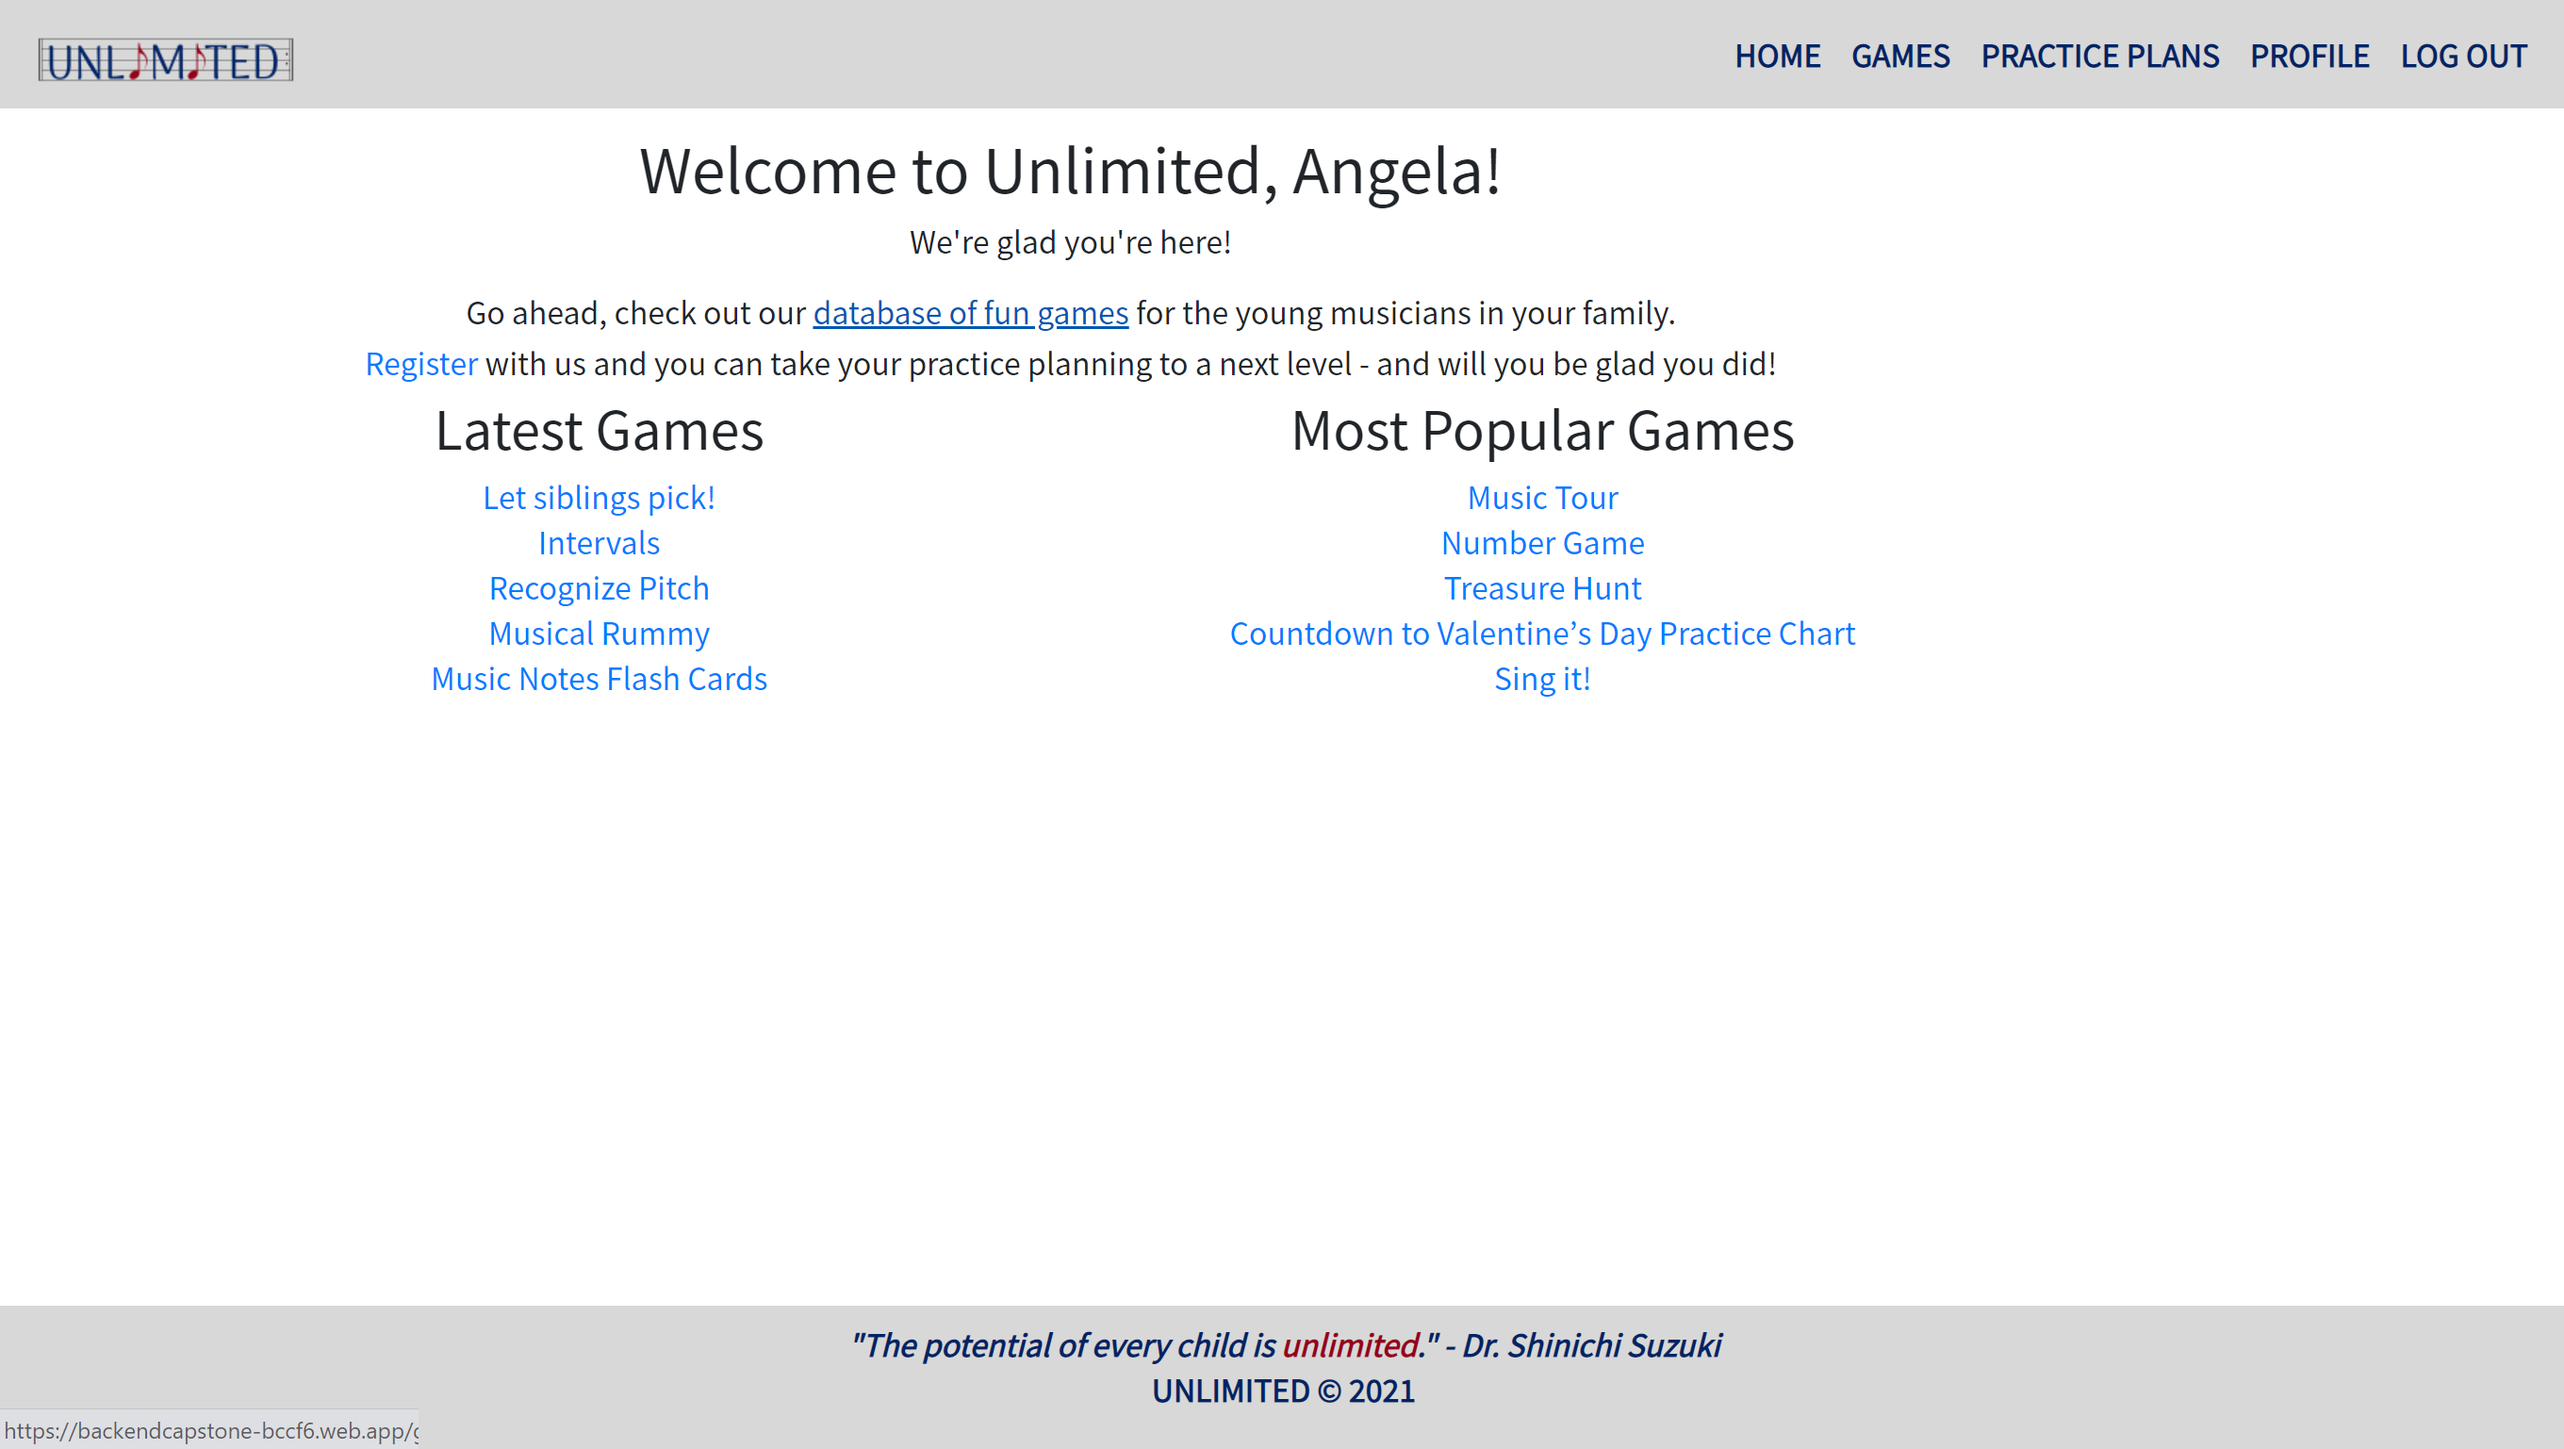
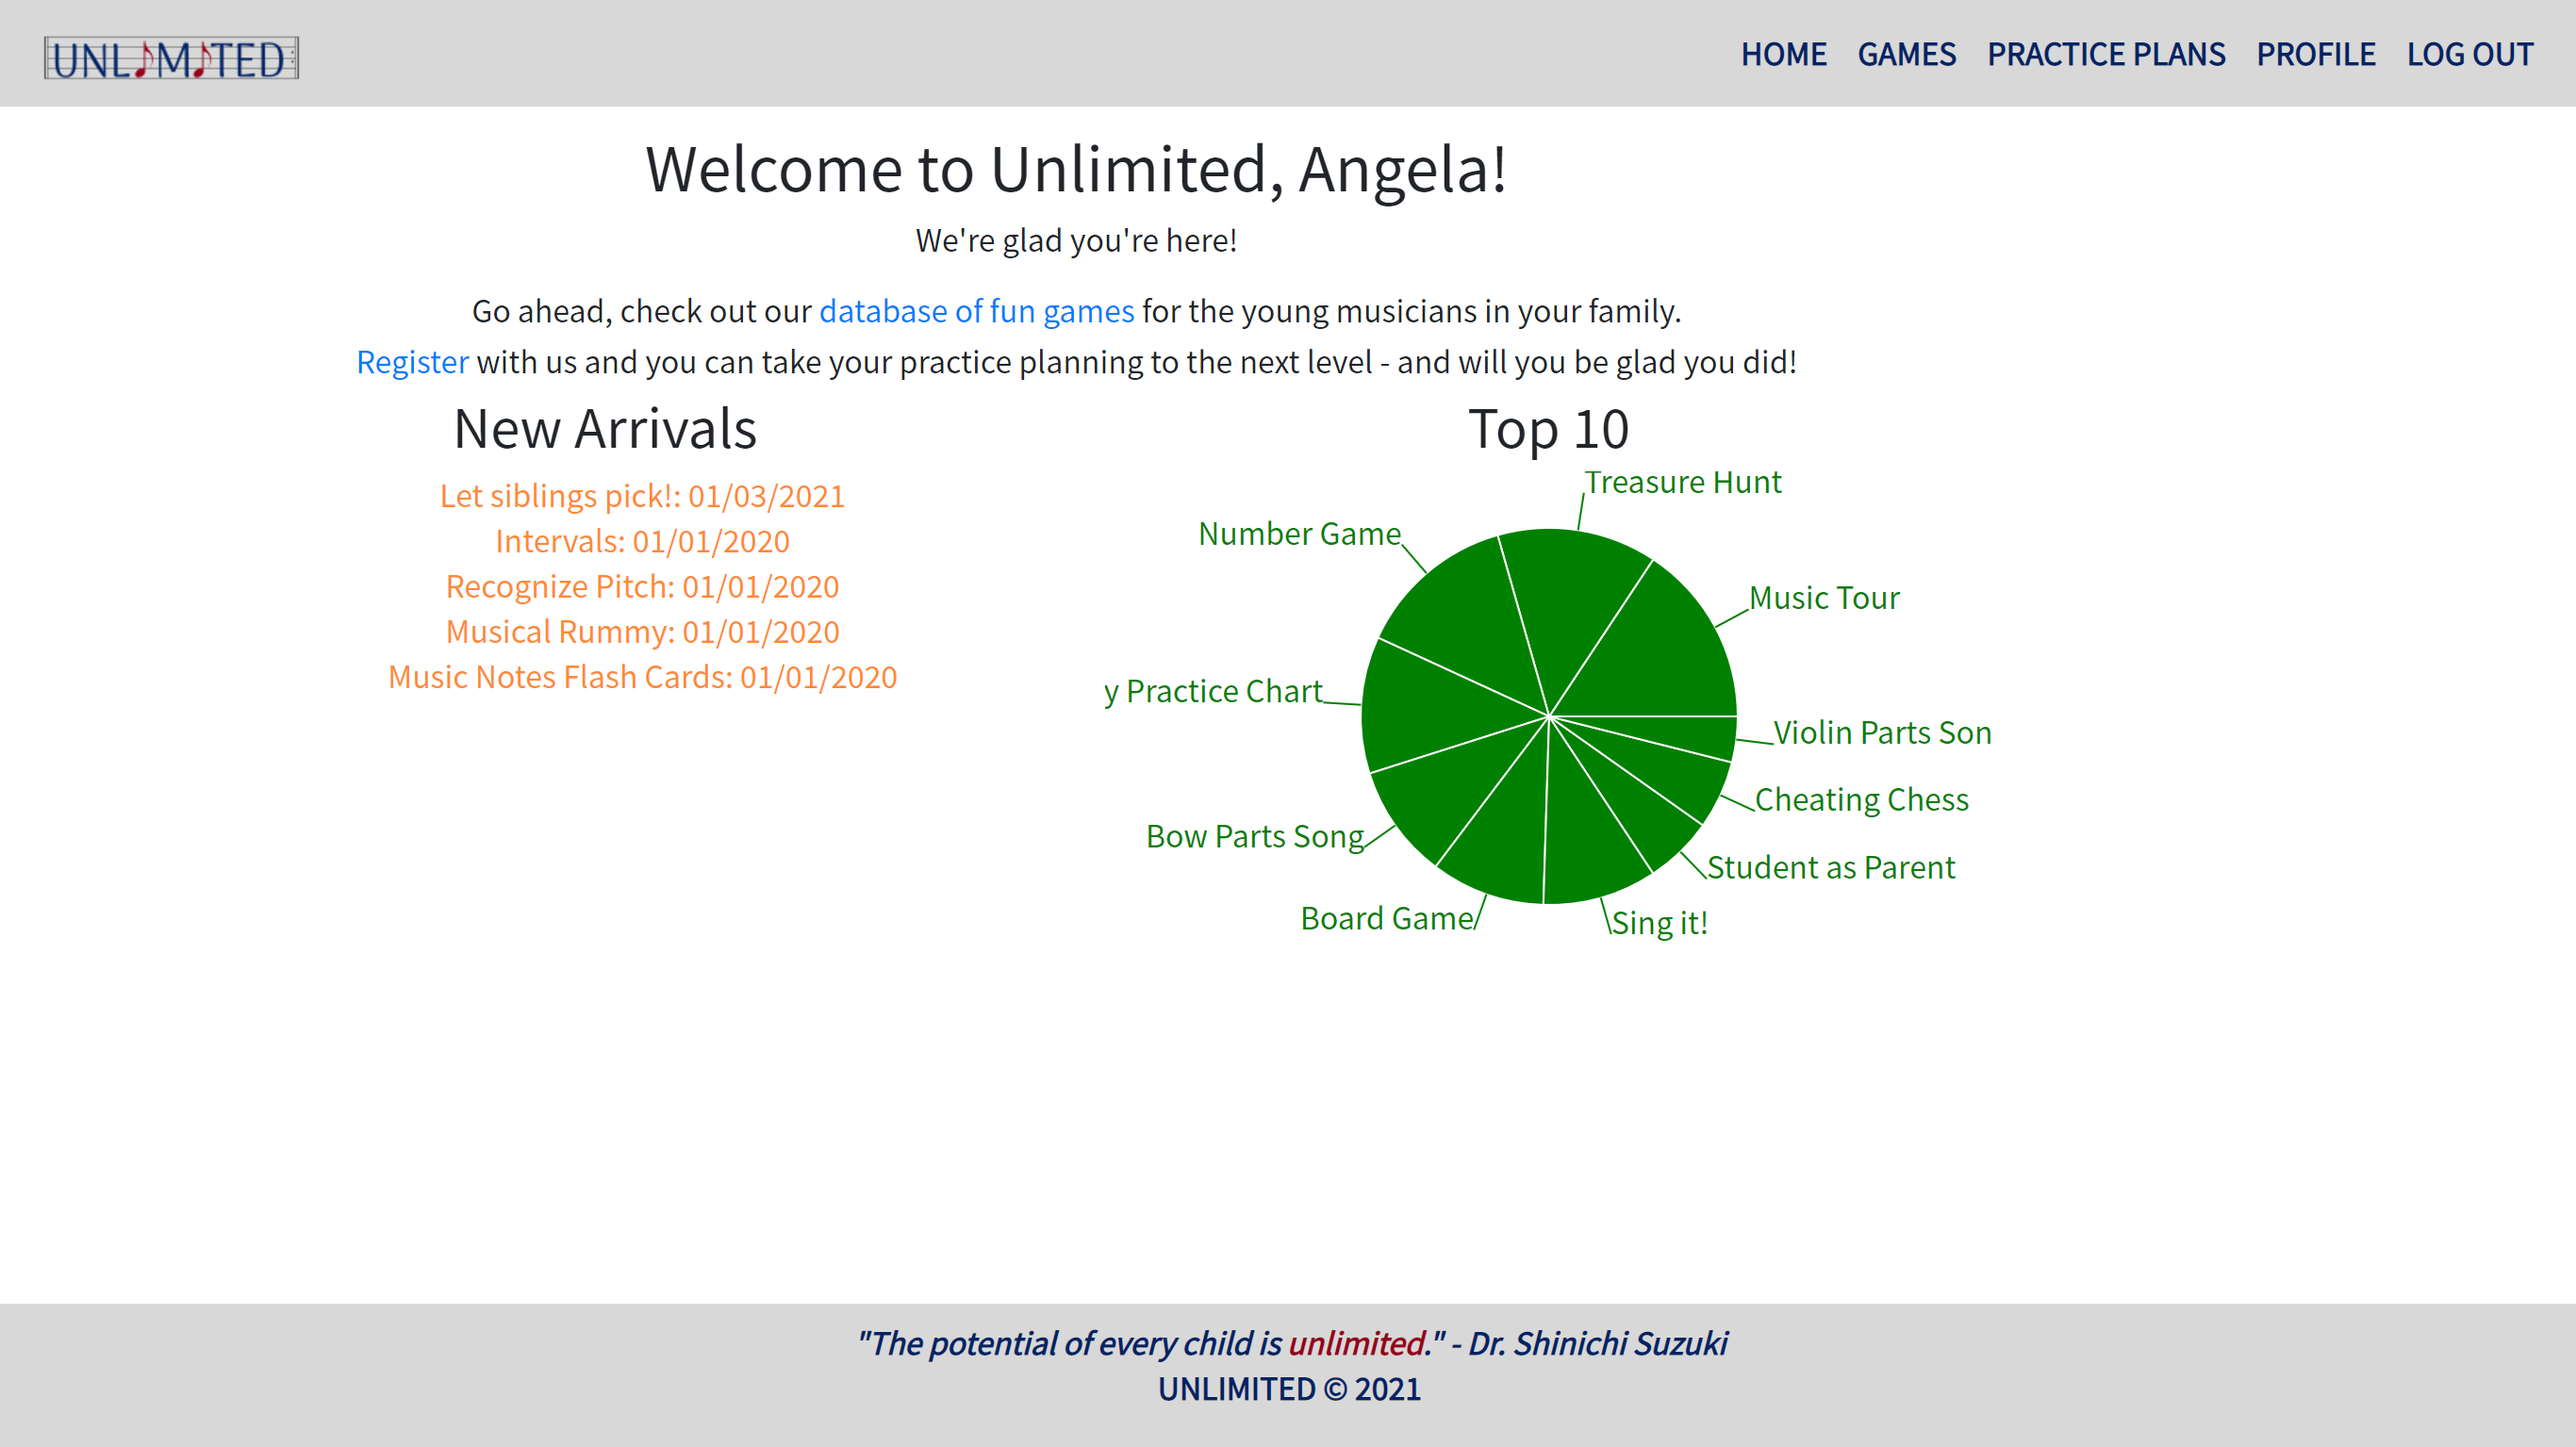
updated Readme

diff --git a/README.md b/README.md
@@ -15,16 +15,19 @@ A full-stack CRUD application built with C#, ASP .NET Core, SQL database, HTTP-b
 ![Game Details Page](./BackendCapstone/backendcapstone.ui/src/images_backend_capstone/GameDetailsPage.PNG)
 ### Practice Plan Details Page
 ![Practice Plan Page](./BackendCapstone/backendcapstone.ui/src/images_backend_capstone/PracticePlanPage.PNG)
+### Practice Plan Details Page on Mobile
+![Practice Plan Page on Mobile](./BackendCapstone/backendcapstone.ui/src/images_backend_capstone/mobile.PNG)
 ### User Profile Page
 ![User Profile Page](./BackendCapstone/backendcapstone.ui/src/images_backend_capstone/UserProfilePage.PNG)
 
 ## Tools & Technologies
-API, ASP .NET Core, Axios, Azure (for SQL database and deployment), Bootstrap, C#, CSS, E6 Modules, Firebase (for authentication and hosting), FreeLogoDesign, Github (for version control and project management), HTML5, JavaScript, Lucidchart, Moment, moqups, React, React Date Picker, React Router, reactstrap, Saas, SQL, SSMS, sweetalert2
+API, ASP .NET Core, Axios, Azure (for SQL database and deployment), Bootstrap, C#, CSS, E6 Modules, Firebase (for authentication and hosting), FreeLogoDesign, Github (for version control and project management), HTML5, JavaScript, Lucidchart, Moment, moqups, React, React Date Picker, React Router, reactstrap, Recharts, Saas, SQL, SSMS, sweetalert2
 
 ## Features
 1. Users can view a database of games that they can utilize to enhance music practices with their young students and their metadata. 
 1. Users can filter the games by keywords as well as the age and instrument the games are intended for and by the amount of prework required.
 1. Users can access a game details page, where they see all the details of a game, including prework steps, instructions, and the source whom we can thank for each idea!
+1. Users can see statistics of interest on their Home page, such as the latest games added to the database and the most popular games.
 1. Users can register on the web site and log in to take advantage of additional features.
 1. Authenticated users can create practice plans and select specific games from the database for days included in the practice plan. 
 1. Authenticated users can keep track of children's progress by marking mark games on practice plans as completed and keeping notes about how individual games worked for them.
@@ -33,6 +36,7 @@ API, ASP .NET Core, Axios, Azure (for SQL database and deployment), Bootstrap, C
 1. Authenticated users can delete games they added to the database (as long as they have not yet been used in a practice plan).
 1. Authenticated users can view their profile, which includes a list of the awesome contributions each of them has made to this database.
 1. Authenticated users can upload a photo for their profile. 
+1. ***Unlimited*** is mobile-friendly. 
 
 ## Deployment
 This app has been deployed with Firebase for the frontend, Azure Web Services for the backend, and using an Azure SQL database. You can find it here: https://backendcapstone-bccf6.web.app/home.
